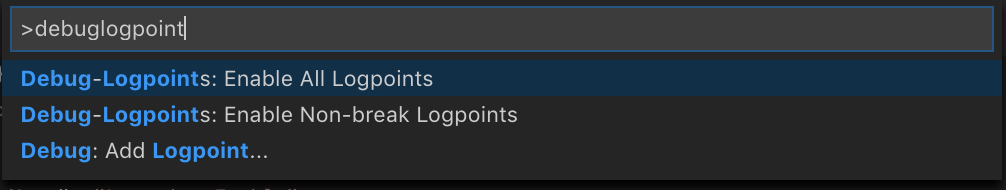
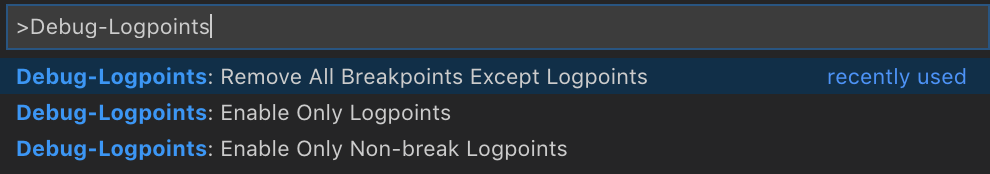
update readme

diff --git a/README.md b/README.md
@@ -1,8 +1,9 @@
 # Logpoint Manager
-This extension provides ability to enable your logpoints via command palette.
+This extension provides ability to manage your logpoints via command palette.
 
 ## Usage
-- enable all logpoints
-- enable non-break logpoints
+- Enable Only Non-break Logpoints -- (This will also other break-breakpoints)
+- Enable Only Logpoints -- (This will also disable other breakpoints)
+- Remove All Breakpoints Except Logpoints -- (The remain breakpoints will only have logpoints)
 
-![Logpoint Enable Command](./resources/debug-logpoints-commands.png 'Logpoint Enable Command')
+![Logpoint Manager Command](./resources/debug-logpoints-commands.png 'Logpoint Manager Command')
